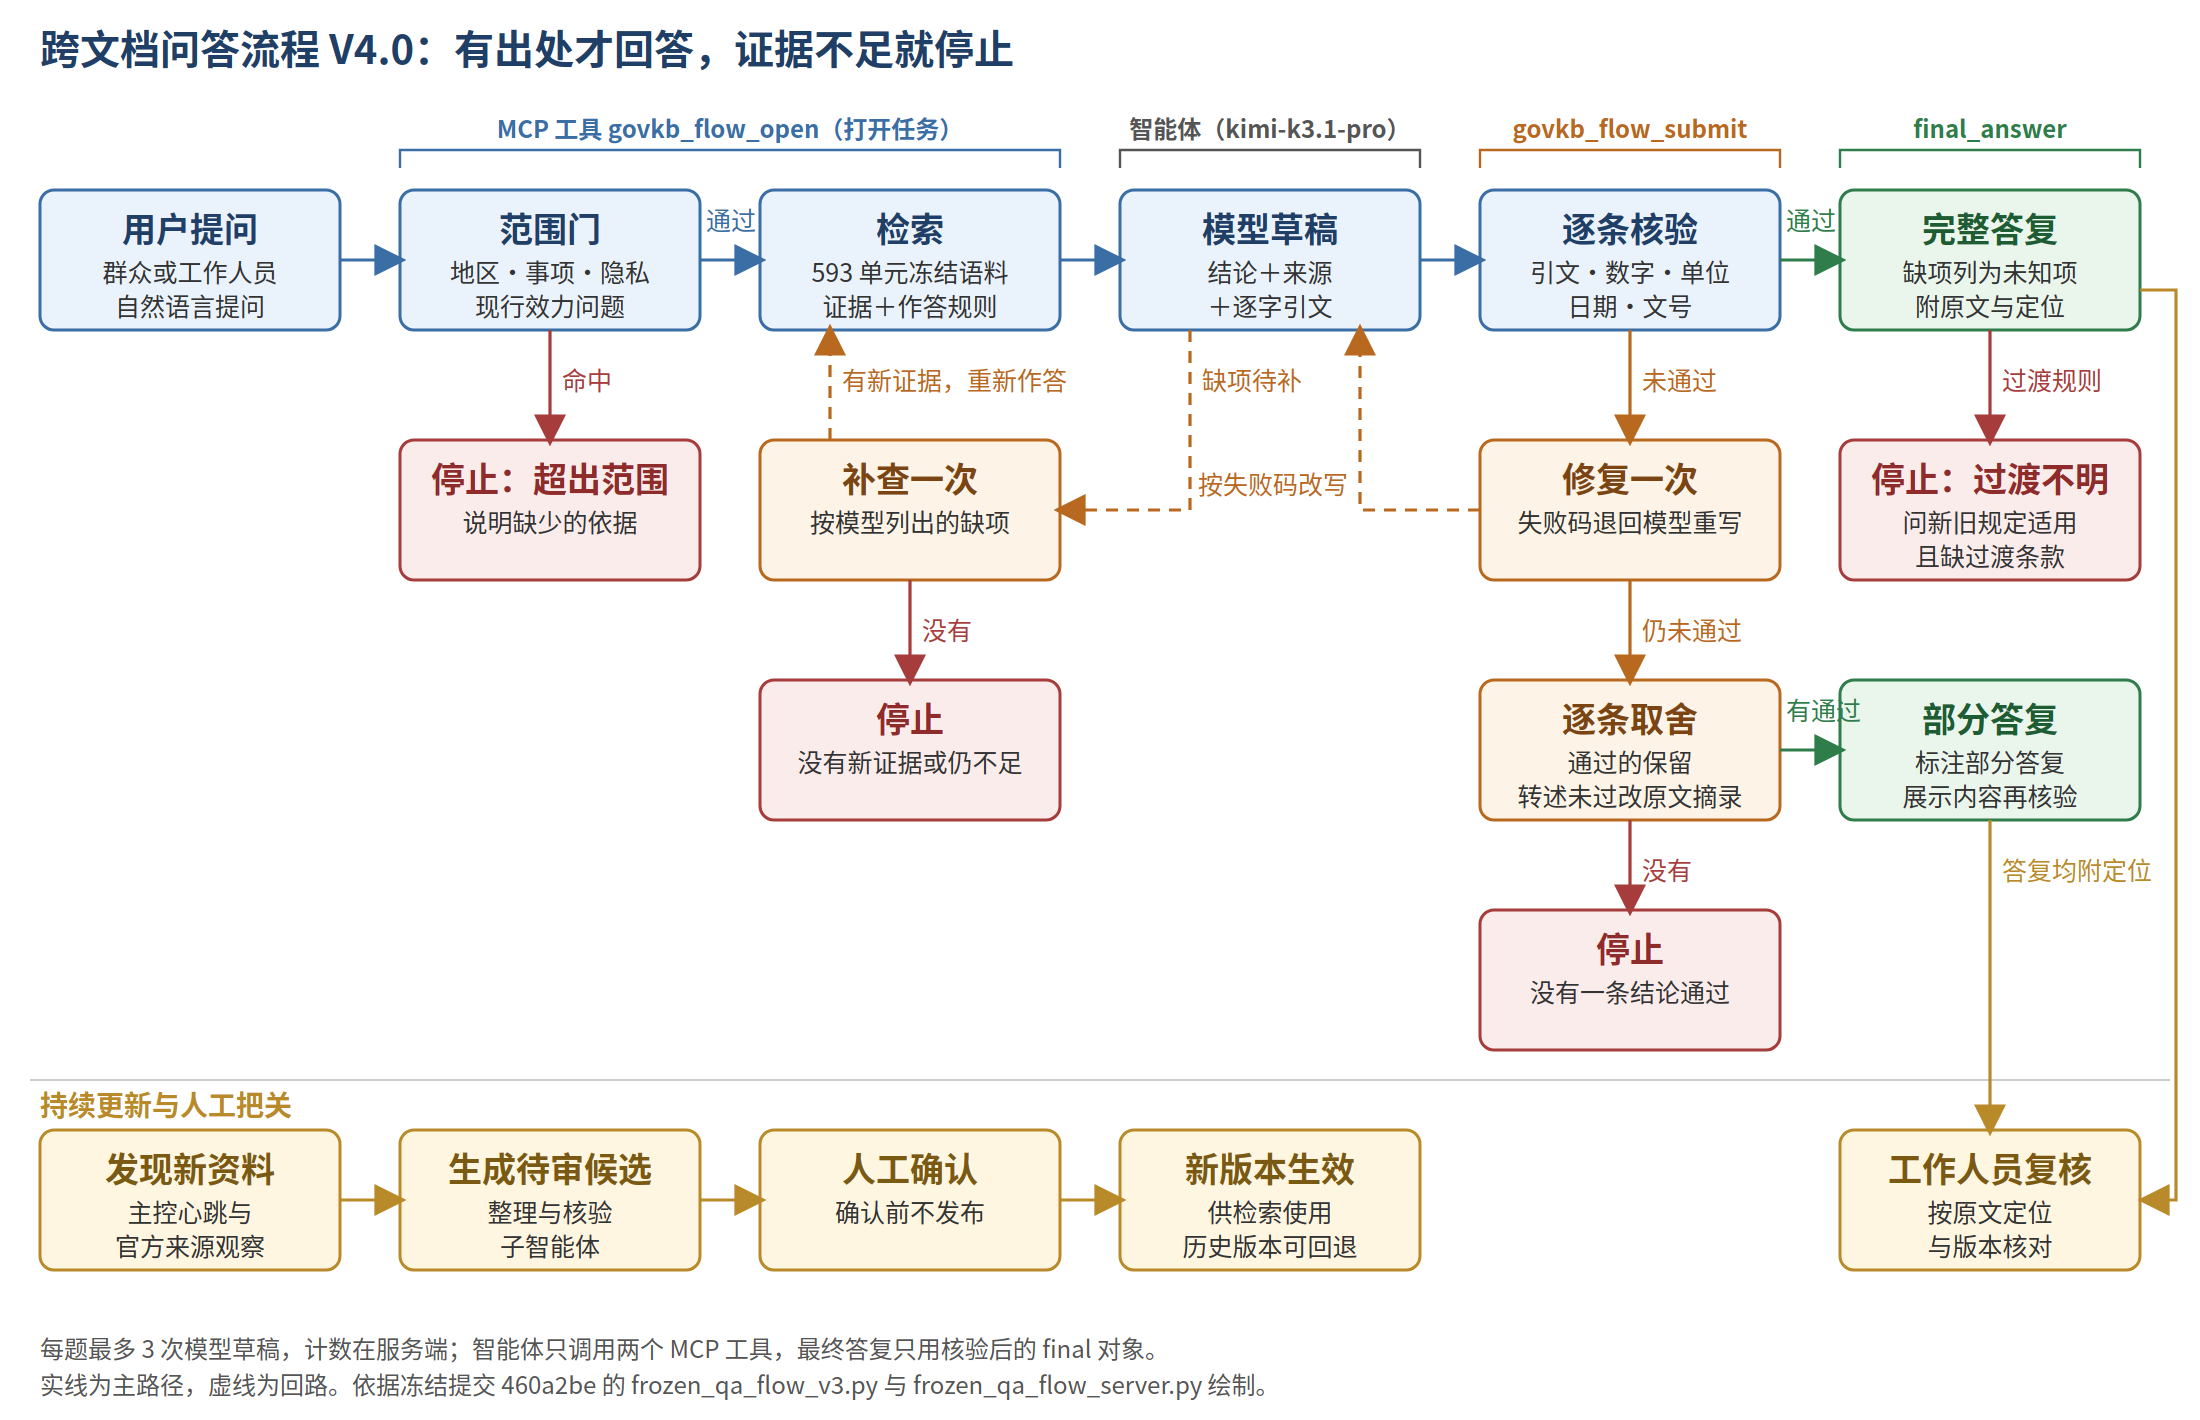
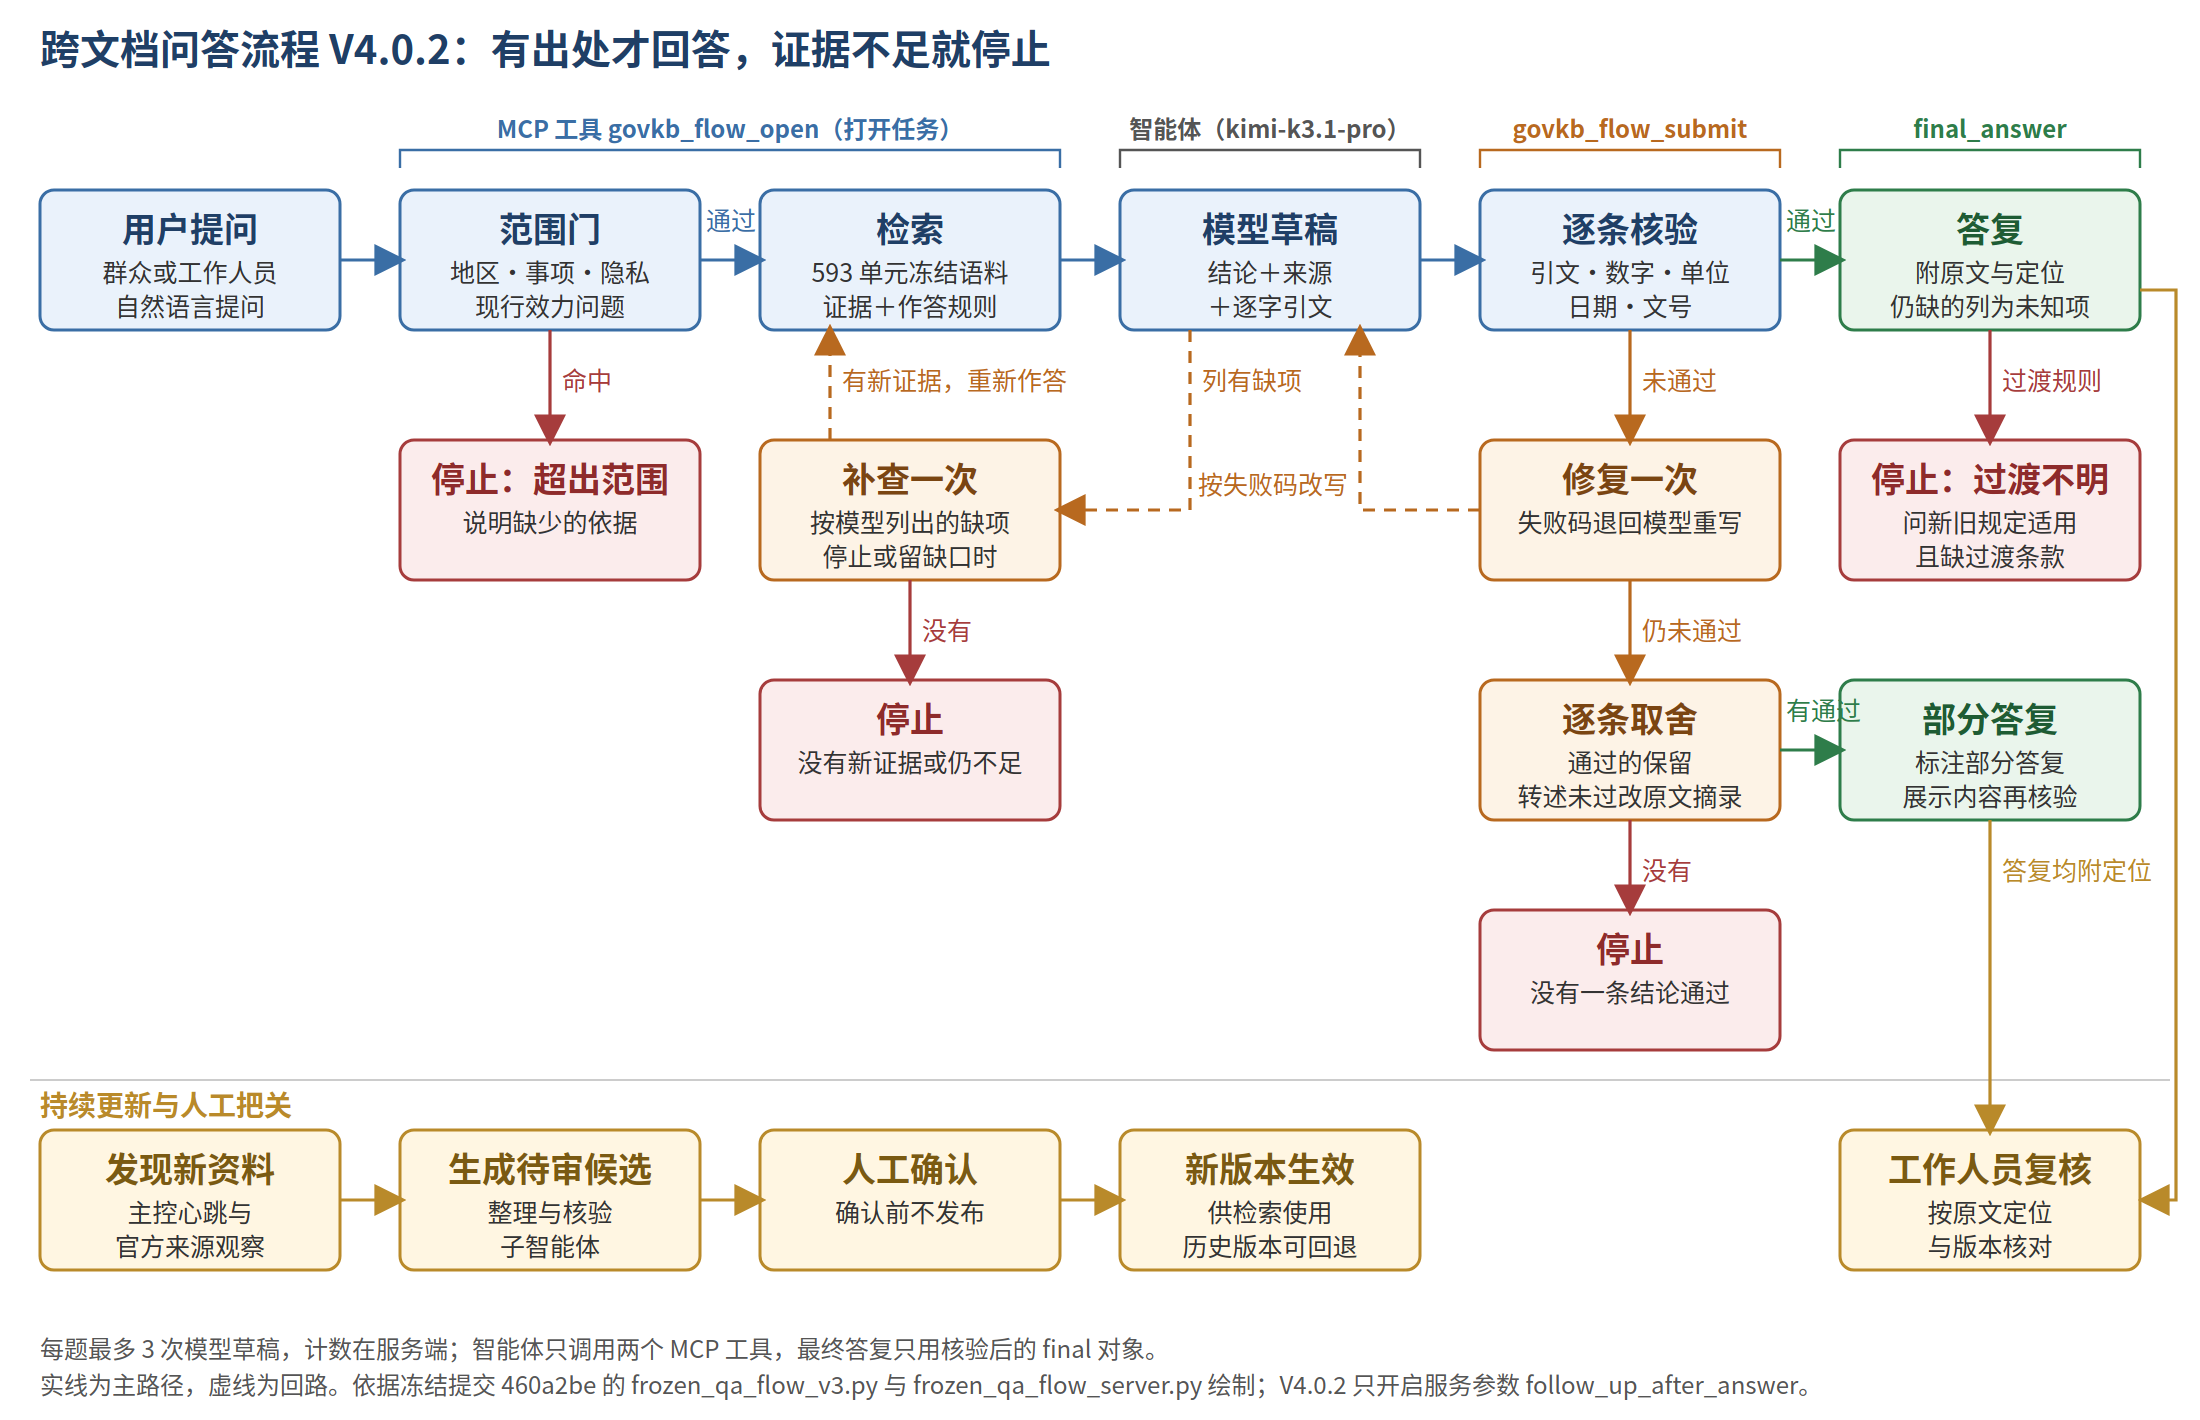
Figure 1-1 for V4.0.2 (follow-up after a gap answer); closed-book LLM comparison arm script (no corpus, outside src)

diff --git a/scripts/closed_book_baseline.py b/scripts/closed_book_baseline.py
@@ -1,0 +1,71 @@
+"""Closed-book LLM comparison arm: the same model answers with no retrieval and no corpus.
+
+It stands for "ask a general chat model directly". The system prompt is a plain, fair
+government-assistant prompt: answer from general knowledge, name the basis when possible,
+and say so when unsure. No corpus unit, no scope gate and no verification are used, so the
+output shows what the model says without the archive. Not part of the product; the frozen
+src modules are only imported for the shared cloud client.
+
+Records (question and answer text) go to a new directory under .runtime only.
+"""
+import argparse
+import json
+import sys
+import time
+from hashlib import sha256
+from pathlib import Path
+
+ROOT = Path(__file__).resolve().parents[1]
+sys.path.insert(0, str(ROOT / "src"))
+from gov_mcp import deepseek  # noqa: E402
+
+METHOD = "closed_book"
+SYSTEM = ("你是政务咨询助手。请根据你掌握的知识，用中文回答用户关于河南省居民身份证、户籍、居住证、"
+          "出入境证件等办理与收费政策的问题。尽量写明依据（文件名称、条款或文号）。"
+          "如果你无法确定，或问题需要以现行官方规定为准，请如实说明。")
+
+
+def main():
+    parser = argparse.ArgumentParser(description=__doc__)
+    parser.add_argument("--questions", type=Path, required=True)
+    parser.add_argument("--output", type=Path, required=True, help="New directory inside .runtime")
+    parser.add_argument("--max-output-tokens", type=int, default=2048)
+    parser.add_argument("--live", action="store_true")
+    args = parser.parse_args()
+    if not args.output.resolve().is_relative_to((ROOT / ".runtime").resolve()):
+        parser.error("PRIVATE_RUNTIME_OUTPUT_REQUIRED")
+    loaded = json.loads(args.questions.read_text("utf-8"))
+    questions = loaded["cases"] if isinstance(loaded, dict) else loaded
+    config = deepseek.PROFILES["bailian"]
+    plan = {"method": METHOD, "questions": len(questions), "model_calls_at_most": len(questions), "retries": 0,
+            "questions_sha256": sha256(args.questions.read_bytes()).hexdigest(), "model": config,
+            "max_output_tokens": args.max_output_tokens, "system_prompt": SYSTEM}
+    if not args.live:
+        print(json.dumps({"dry_run": True, **plan}, ensure_ascii=False, indent=1))
+        return
+    if args.output.exists():
+        parser.error("OUTPUT_EXISTS_KEEP_ORIGINAL")
+    args.output.mkdir(parents=True)
+    (args.output / "plan.json").write_text(json.dumps(plan, ensure_ascii=False, indent=1), "utf-8")
+    calls = 0
+    with (args.output / "records.jsonl").open("w", encoding="utf-8") as out:
+        for item in questions:
+            started = time.monotonic()
+            record = {"schema_version": 1, "method": METHOD, "question_id": item["id"], "question": item["question"]}
+            try:
+                calls += 1
+                reply = deepseek.chat(config, [{"role": "system", "content": SYSTEM},
+                                               {"role": "user", "content": item["question"]}],
+                                      json_output=False, max_output_tokens=args.max_output_tokens)
+                record["answer"] = reply["output"]
+                record["usage"] = reply["usage"]
+                record["served_model"] = reply["model"]
+            except deepseek.CloudError as error:
+                record["error"] = str(error)
+            record["duration_ms"] = round((time.monotonic() - started) * 1000, 1)
+            out.write(json.dumps(record, ensure_ascii=False, default=str) + "\n")
+    print(json.dumps({"model_calls": calls, "output": str(args.output)}, ensure_ascii=False))
+
+
+if __name__ == "__main__":
+    main()

diff --git a/scripts/draw_v4_flow.py b/scripts/draw_v4_flow.py
@@ -1,4 +1,4 @@
-"""Draw figure 1-1 for V4.0: the bounded cross-document flow as the Nexent agent runs it.
+"""Draw figure 1-1 for V4.0.2: the bounded cross-document flow as the Nexent agent runs it.
 
 Writes docs/competition/assets/v4-figures/v4-flow.svg. Layout follows the V3 figure; boxes and loops
 follow frozen_qa_flow_v3.py / frozen_qa_flow_server.py at the V4.0 freeze (460a2be).
@@ -47,7 +47,7 @@ def bracket(x1, x2, text, color):
 
 
 B, R, O, G, Yl = "#3A6EA5", "#A63C3C", "#B8691F", "#2E7D4A", "#B98A2A"
-parts.append(f'<text x="40" y="64" font-size="40" font-weight="bold" fill="#1F3F66">跨文档问答流程 V4.0：有出处才回答，证据不足就停止</text>')
+parts.append(f'<text x="40" y="64" font-size="40" font-weight="bold" fill="#1F3F66">跨文档问答流程 V4.0.2：有出处才回答，证据不足就停止</text>')
 bracket(X[1], X[2] + BW, "MCP 工具 govkb_flow_open（打开任务）", B)
 bracket(X[3], X[3] + BW, "智能体（kimi-k3.1-pro）", "#555")
 bracket(X[4], X[4] + BW, "govkb_flow_submit", O)
@@ -58,9 +58,9 @@ box(1, 1, "blue", "范围门", "地区·事项·隐私", "现行效力问题")
 box(2, 1, "blue", "检索", "593 单元冻结语料", "证据＋作答规则")
 box(3, 1, "blue", "模型草稿", "结论＋来源", "＋逐字引文")
 box(4, 1, "blue", "逐条核验", "引文·数字·单位", "日期·文号")
-box(5, 1, "green", "完整答复", "缺项列为未知项", "附原文与定位")
+box(5, 1, "green", "答复", "附原文与定位", "仍缺的列为未知项")
 box(1, 2, "red", "停止：超出范围", "说明缺少的依据")
-box(2, 2, "orange", "补查一次", "按模型列出的缺项")
+box(2, 2, "orange", "补查一次", "按模型列出的缺项", "停止或留缺口时")
 box(4, 2, "orange", "修复一次", "失败码退回模型重写")
 box(5, 2, "red", "停止：过渡不明", "问新旧规定适用", "且缺过渡条款")
 box(2, 3, "red", "停止", "没有新证据或仍不足")
@@ -75,7 +75,7 @@ path([mid(3, 1, "r"), mid(4, 1, "l")], B)
 path([mid(4, 1, "r"), mid(5, 1, "l")], G, "通过", (X[4] + BW + 6, Y[1] + 40))
 path([mid(1, 1, "b"), mid(1, 2, "t")], R, "命中", (X[1] + BW / 2 + 12, Y[1] + BH + 60))
 dx = X[3] + 70
-path([(dx, Y[1] + BH), (dx, Y[2] + BH / 2), mid(2, 2, "r")], O, "缺项待补", (dx + 12, Y[1] + BH + 60), dashed=True)
+path([(dx, Y[1] + BH), (dx, Y[2] + BH / 2), mid(2, 2, "r")], O, "列有缺项", (dx + 12, Y[1] + BH + 60), dashed=True)
 ux = X[2] + 70
 path([(ux, Y[2]), (ux, Y[1] + BH)], O, "有新证据，重新作答", (ux + 12, Y[1] + BH + 60), dashed=True)
 path([mid(2, 2, "b"), mid(2, 3, "t")], R, "没有", (X[2] + BW / 2 + 12, Y[2] + BH + 60))
@@ -100,7 +100,7 @@ path([mid(5, 3, "b"), mid(5, 5, "t")], Yl, "答复均附定位", (X[5] + BW / 2 
 path([(X[5] + BW, Y[1] + BH / 2 + 30), (W - 24, Y[1] + BH / 2 + 30), (W - 24, Y[5] + BH / 2), (X[5] + BW + 4, Y[5] + BH / 2)], Yl)
 
 notes = ["每题最多 3 次模型草稿，计数在服务端；智能体只调用两个 MCP 工具，最终答复只用核验后的 final 对象。",
-         "实线为主路径，虚线为回路。依据冻结提交 460a2be 的 frozen_qa_flow_v3.py 与 frozen_qa_flow_server.py 绘制。"]
+         "实线为主路径，虚线为回路。依据冻结提交 460a2be 的 frozen_qa_flow_v3.py 与 frozen_qa_flow_server.py 绘制；V4.0.2 只开启服务参数 follow_up_after_answer。"]
 for i, n in enumerate(notes):
     parts.append(f'<text x="40" y="{H - 62 + 36 * i}" font-size="24" fill="#555">{escape(n)}</text>')
 
